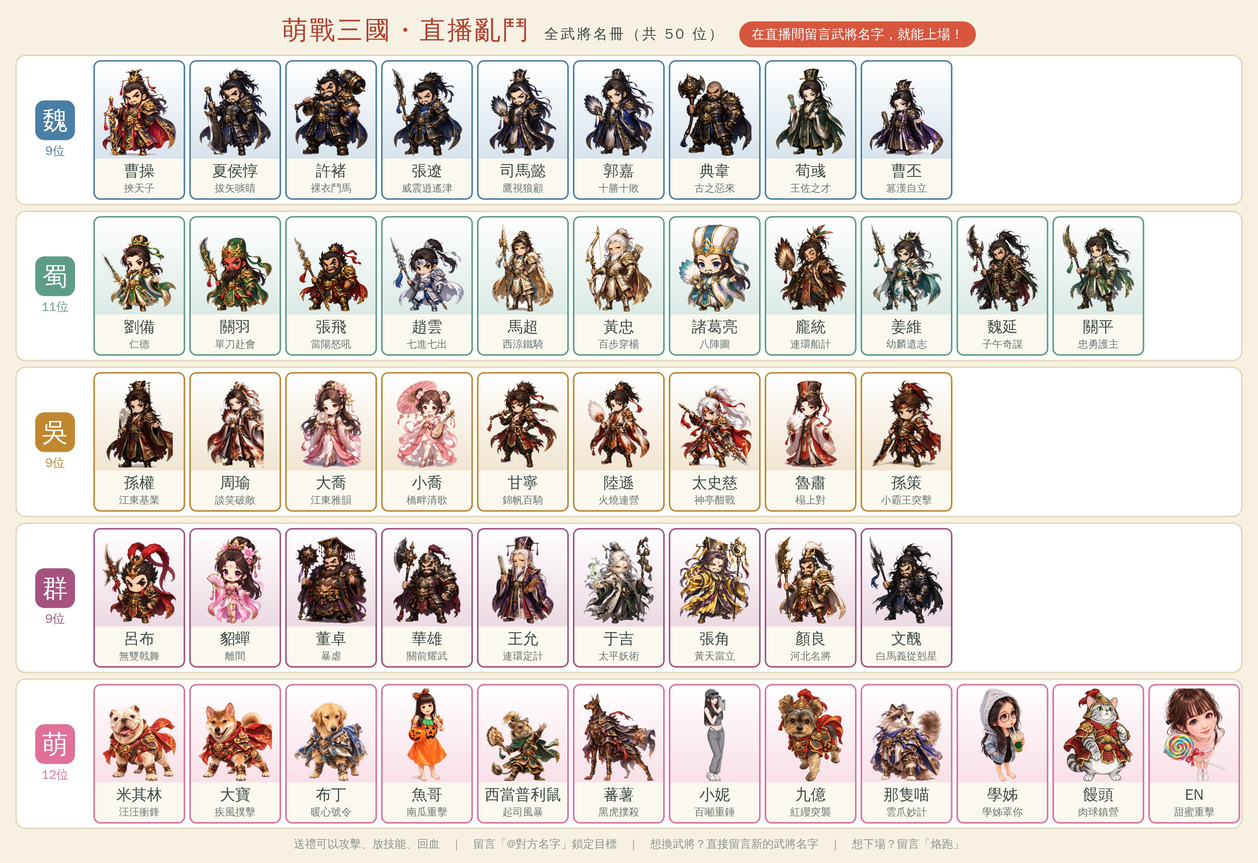
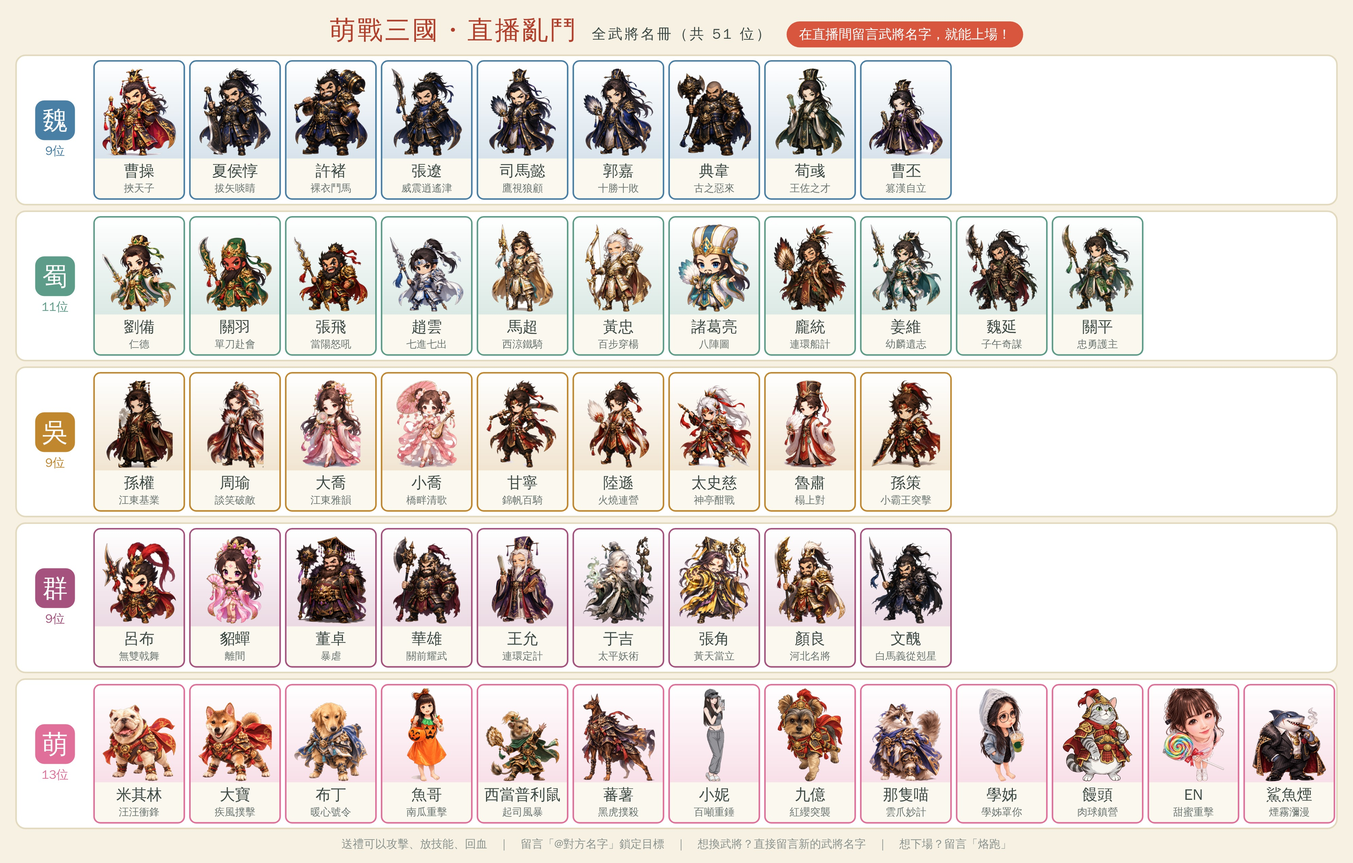
新角色：鯊魚煙（萌國猛將，含逐格動畫與專屬特效） (#108)
* 新增萌國角色「學姊」（統帥）＋動畫提示詞；原圖星巴克商標塗掉；cutout_hero 加 --model

Claude-Session: https://claude.ai/code/session_01J1mi4tQsbQufTfnNbsrTar

* 學姊待機動畫提示詞改成自拍

Claude-Session: https://claude.ai/code/session_01J1mi4tQsbQufTfnNbsrTar

* 學姊加第二組待機提示詞：拿麥克風唱歌

Claude-Session: https://claude.ai/code/session_01J1mi4tQsbQufTfnNbsrTar

* 學姊走路／普攻／技能逐格動畫登記（原圖商標塗掉）；待機圖不能用須重生

Claude-Session: https://claude.ai/code/session_01J1mi4tQsbQufTfnNbsrTar

* 學姊待機提示詞：加入杯子當麥克風版本

Claude-Session: https://claude.ai/code/session_01J1mi4tQsbQufTfnNbsrTar

* 學姊：待機動畫（拿麥克風唱歌，上半身格接技能圖下半身）

Claude-Session: https://claude.ai/code/session_01J1mi4tQsbQufTfnNbsrTar

* 修正轉輪語音後半段被切掉

Claude-Session: https://claude.ai/code/session_01J1mi4tQsbQufTfnNbsrTar

* 新角色自動開放：可選武將記下已知名單，舊設定不再擋掉那隻喵、學姊

Claude-Session: https://claude.ai/code/session_01J1mi4tQsbQufTfnNbsrTar

* 特效全面改用圖片特效（CC0 素材包），沒有圖時退回程式畫的

Claude-Session: https://claude.ai/code/session_01J1mi4tQsbQufTfnNbsrTar

* 試作：3D 武將動作拍成連續圖的工具（關羽）

Claude-Session: https://claude.ai/code/session_01J1mi4tQsbQufTfnNbsrTar

* 三國武將 38 隻動畫提示詞（走路／攻擊／技能／待機）與每日隊列

Claude-Session: https://claude.ai/code/session_01J1mi4tQsbQufTfnNbsrTar

* Gemini 排程指令與交接方式（Drive 資料夾檔名當進度）

Claude-Session: https://claude.ai/code/session_01J1mi4tQsbQufTfnNbsrTar

* 3D 拍圖的關羽試作先不登記（風格未定案），版本號 bump

Claude-Session: https://claude.ai/code/session_01J1mi4tQsbQufTfnNbsrTar

* 改用 ChatGPT Codex 生圖：排程指令、交接資料夾 inbox，提示詞加橫式 3:2

Claude-Session: https://claude.ai/code/session_01J1mi4tQsbQufTfnNbsrTar
[…]

diff --git a/js/config.js b/js/config.js
@@ -16,6 +16,7 @@ window.GAME_CONFIG = {
     hamster:  { attack: { style: 'projectile', emoji: '🧀', color: '#ffd35c' }, skill: { style: 'emojiStorm', emoji: '🧀', n: 18, color: '#ffd35c' } },   // 西當普利鼠：丟起司、起司旋風
     yam:      { attack: { style: 'claw', color: '#b06cff' }, skill: { style: 'tigerPounce', color: '#b06cff' } },                      // 蕃薯：紫色爪痕、猛虎撲殺
     joy:      { attack: { style: 'claw', color: '#ff5a4d' }, skill: { style: 'emojiRain', emoji: '🍗', n: 10, big: 0.6, color: '#ffb36b' } },   // Joy：紅色爪痕、大雞腿雨
+    sharksmoke: { attack: { style: 'bite', color: '#ffffff' }, skill: { style: 'smokeBlow', color: '#cfd4dc' } },   // 鯊魚煙：張大嘴咬、吸一口雪茄吐大片煙霧
     mantou:   { attack: { style: 'claw', color: '#f2f2f8' }, skill: { style: 'stampSmash', text: '肉球', color: '#ffd35c' } },   // 饅頭：肉球爪擊、「肉球」大字蓋章
     xuejie:   { attack: { style: 'projectile', emoji: '🧋', color: '#d9b27a' }, skill: { style: 'heartWave', emoji: '🍵', color: '#7bd46b' } },   // 學姊：丟冰飲、抹茶光波
     nekomeow: { attack: { style: 'claw', color: '#8f9bff' }, skill: { style: 'emojiStorm', emoji: '🐾', n: 16, color: '#8f9bff' } },   // 那隻喵：藍紫爪痕、肉球旋風
@@ -453,6 +454,14 @@ window.GAME_CONFIG = {
       walk: { src: 'hamster_walk.png', frames: 7, cw: 271, ch: 324, ground: 320, fps: 9 },   // 走路循環（原圖 16 格有的有羽扇有的沒有，只挑有羽扇的 7 格）
     },
     // 蕃薯：待機＝吃薯條（8 格，每秒 3 格連播 2 輪）；攻擊／技能＝撲出去咬（8 格，第 5 格咬下去；普攻 13 格/秒、技能 11 格/秒）
+    sharksmoke: {   // 鯊魚煙：Gemini 生圖（8 格 4x2，make_anim_sheet.py --grid 4x2 --faces right --match-height 315；idle／attack 兩張相鄰格子的披風黏在一起，加 --cut 316:0-848,632:0-848,948:0-848 切開）
+      idle: { src: 'sharksmoke_idle.png', frames: 8, cw: 282, ch: 329, ground: 326, fps: 3, repeat: 2 },   // 待機一：抽雪茄
+      idle2: { src: 'sharksmoke_dinner.png', frames: 8, cw: 262, ch: 324, ground: 321, fps: 3, repeat: 2 },   // 待機二：坐在餐桌前吃牛排
+      eat: { src: 'sharksmoke_idle.png', frames: 8, cw: 282, ch: 329, ground: 326, fps: 3, repeat: 2 },   // 回血時播抽雪茄
+      walk: { src: 'sharksmoke_walk.png', frames: 8, cw: 275, ch: 324, ground: 320, fps: 9 },   // 黑道大哥搖擺走路
+      attack: { src: 'sharksmoke_attack.png', frames: 8, cw: 281, ch: 331, ground: 328, fps: 10, hitFrame: 5 },   // 張大嘴咬，第 5 格咬合
+      skill: { src: 'sharksmoke_skill.png', frames: 8, cw: 314, ch: 326, ground: 323, fps: 8, hitFrame: 6 },   // 技能「煙霧瀰漫」：吸一口雪茄，第 6 格吐出煙
+    },
     mantou: {   // 饅頭：Gemini／ChatGPT 生圖（8 格 4x2，make_anim_sheet.py --grid 4x2 --faces left --match-height 396）
       idle: { src: 'mantou_idle.png', frames: 8, cw: 312, ch: 411, ground: 408, fps: 3, repeat: 2 },   // 待機：拿出超大罐頭開心地吃（素色橘標籤罐頭，沒有商標）；之後做呼吸待機再當 idle，這組改成 idle2
       eat: { src: 'mantou_idle.png', frames: 8, cw: 312, ch: 411, ground: 408, fps: 3, repeat: 2 },   // 回血時也播同一組
@@ -522,7 +531,7 @@ window.GAME_CONFIG = {
   // 程式假設每張全身圖原本都是「面向左邊」，往右走時會把圖左右翻面。
   // 如果發現某隻武將走路時是倒退著走（背對前進方向），代表牠的原圖其實面向右，
   // 把牠的英文 ID 加進下面這個清單就會修正。例如： ['taishici', 'sunquan']
-  artFacesRight: ['taishici', 'xuejie'],
+  artFacesRight: ['taishici', 'xuejie', 'sharksmoke'],
 
   // ---------- 留言指令 ----------
   commands: {

diff --git a/data/extra-heroes.js b/data/extra-heroes.js
@@ -31,4 +31,6 @@ window.HEROES_DATA = window.HEROES_DATA.concat([
   { heroId: 'mantou', displayName: '饅頭', faction: 'Meng', troop: 'Vanguard', baseHp: 928, baseAtk: 52, baseArmor: 47, skillName: '肉球鎮營', extra: true },
   // ❤（2026-11-18 咖哩第十二隻，heroId: heart）：萌國的棕髮瀏海女孩猛將（粉色毛衣、白色小裙、白球鞋，從上往下看的角度，手拿超大彩虹旋渦棒棒糖，糖上綁紅色蝴蝶結）。**2026-11-18 咖哩改名成「EN」**（heroId 仍是 heart）；召喚方式仍是整句愛心（別名，見 config.js 的 heroAliases），整句留言剛好是 EN 也行；因為愛心太常出現在聊天裡，**只有整句留言剛好是愛心（❤、❤❤…最多 6 顆）才會召喚她**，聊天裡夾著愛心不算，也不能靠留言愛心換成她（exactOnly，見 game.js）。能力值取猛將中間檔（同米其林），技能「甜蜜重擊」（用超大棒棒糖打人）。名字以外的設定（兵種、數值、技能名）是 Claude 先定的。
   { heroId: 'heart', displayName: 'EN', faction: 'Meng', troop: 'Vanguard', baseHp: 928, baseAtk: 52, baseArmor: 47, skillName: '甜蜜重擊', extra: true, exactOnly: true },
+  // 鯊魚煙（2026-11-19 咖哩第十三隻）：萌國的黑道大哥鯊魚猛將（直條紋西裝、黑色毛領披風、金鍊子、金錶、胸口紅玫瑰、嘴叼雪茄）。名字以外的設定（兵種、數值、技能名）是 Claude 先定的：猛將中間檔（同米其林），技能「煙霧瀰漫」（吸一口雪茄吐出大片煙霧）。
+  { heroId: 'sharksmoke', displayName: '鯊魚煙', faction: 'Meng', troop: 'Vanguard', baseHp: 928, baseAtk: 52, baseArmor: 47, skillName: '煙霧瀰漫', extra: true },
 ]);

diff --git a/js/hero-fx.js b/js/hero-fx.js
@@ -139,6 +139,27 @@ window.ML = window.ML || {};
         h.quake(0.7);
       },
     },
+    // 煙霧瀰漫（鯊魚煙）：從嘴裡吐出一大片煙霧飄向對手，煙霧在對手身上炸開、整片罩住
+    smokeBlow: {
+      hit: 0.7,
+      fire(h, tv, p) {
+        const c = pick(p, 'color', '#cfd4dc');
+        for (let i = 0; i < 14; i++) h.after(i * 0.04, () => {
+          const t = 0.55, dx = tv.x - h.v.x, dy = tv.y - h.v.y;
+          h.fx.emoji(h.v.x, h.v.y, i % 3 ? '💨' : '☁', h.v.size * rnd(0.3, 0.55), dx / t + rnd(-70, 70), dy / t - 60 + rnd(-70, 70), 80, t + 0.15, rnd(-3, 3));
+        });
+        h.ring(h.v, { life: 0.7, color: c, max: 2.4, width: 8 });
+      },
+      onHit(tv, h, p) {
+        const c = pick(p, 'color', '#cfd4dc');
+        emojiBurst(tv, h, '☁', 16, 460);
+        emojiBurst(tv, h, '💨', 10, 560);
+        h.fx.shock(tv.x, tv.y + tv.size * 0.5, tv.size * 2.4, c, 0.9, true);
+        h.fx.sparks(tv.x, tv.y, '#eef1f5', 26, 420, 6, 0.9);
+        h.ring(tv, { life: 0.9, color: c, max: 2.8, width: 9 });
+        h.quake(0.8);
+      },
+    },
     // 食物旋風：一圈表情符號繞著對手轉、往上捲
     emojiStorm: {
       hit: 0.7,

diff --git a/js/version.js b/js/version.js
@@ -1,3 +1,3 @@
 // 目前的版本號。每次有更新要上線，就跑 python3 tools/bump_version.py（會同時改這個檔和 version.json）。
 // 直播畫面會定時去讀 version.json，發現跟自己不一樣就自動更新（見 js/updater.js）。
-window.APP_VERSION = '2026-11-18.10';
+window.APP_VERSION = '2026-11-19.2';

diff --git a/CLAUDE.md b/CLAUDE.md
@@ -224,6 +224,7 @@
   - **學姊**（2026-11-16 咖哩第十隻）：長髮眼鏡女孩統帥（灰色連帽、黑框眼鏡、牛仔外套、黑上衣短褲、光腳、手拿冰抹茶拿鐵），`heroId: xuejie`，統帥（技能演出＝光環＋光柱），血 746／攻 55／防 34（同布丁，**全員同能力開著時不生效**），技能「學姊罩你」。名字以外的設定（兵種、數值、技能名）是 Claude 先定的。專屬特效：丟冰飲🧋（普攻）＋抹茶🍵光波（技能，`heartWave`）。**⚠ 原圖杯子上有星巴克（Starbucks）的商標（美人魚圖案）**——這個 repo 是公開的、要在 TikTok 直播，真實品牌商標不適合放進去，所以**處理圖時用小程式把商標塗掉，變成杯上一個素色深綠色圓形貼紙**（只改商標圓形範圍內的像素、避開手指；`assets/heroes/xuejie.png`）。**之後給 Claude 新圖或動畫圖時，如果杯子上還有商標，Claude 會再塗掉；生圖提示詞也已寫明「杯身不要商標」**。去背：預設模型（isnet）會把裸露的小腿和腳當成背景去掉（背景是深色光暈、皮膚顏色接近），改用 `birefnet-general`（`cutout_hero.py --model birefnet-general`，第一次執行下載約 1GB 模型，這台雲端環境下載得到），全身（含光腳）完整。圖面向右（視線往右上），所以列進 `config.js` 的 `artFacesRight`（跟太史慈一樣，程式才會左右翻對）。**逐格動畫：走路／普攻／技能／待機都已做好並登記**（2026-11-16 咖哩用 Gemini 生圖）：**走路**＝悠閒走路 12 格（`xuejie_walk.png`，12 格/秒）、**普攻**＝吸飲料→皺眉→彈指→伸手向前→收回 8 格（`xuejie_attack.png`，`hitFrame: 6`，伸手向前那格）、**技能**＝舉杯→叉腰→頭髮飛揚→比讚笑→手指向前→回站姿 8 格（`xuejie_skill.png`，`hitFrame: 7`，手指向前那格；原圖第 8 格只畫到腰、被格子切掉所以沒用）。**⚠ Gemini 雖然被要求杯身不能有商標，但走路圖第 3 排 4 格、普攻圖最後一格的杯子上還是長出了星巴克商標**：這幾格我用小程式在杯上蓋素色深綠貼紙（座標是看圖量的，不是自動偵測；自動偵測會誤傷腿上陰影，所以改手動座標）。**之後每次收到她的新動畫圖，都要檢查杯子有沒有商標**。圖片版面不規則（技能圖有格子黏在一起、有的格被切掉），做法：自動找出每個角色（連通塊，附近的小碎片歸給最近的角色）、第 6／7 格黏在一起的用「侵蝕找出兩個身體核心再把其餘像素分給最近的核心」切開、小於本體 1.2% 的雜點丟掉，再重新貼成整齊的格子交給 `make_anim_sheet.py`（`--scale` 0.89～1.0 依各圖角色大小量過）。**待機（拿麥克風唱歌）已做好並登記**（`xuejie_idle.png`，7 格，3 格/秒連播 2 輪，回血 `eat` 用同一組）：咖哩第三版生圖仍然每格只畫到腰（被格子切掉腿），所以**用技能圖裡的下半身（短褲＋腿＋光腳）接到每格上半身上**（比對黑衣寬度與中心後縮放貼上，腳本不在 repo、一次性做的）；原圖第 7 格沒拿杯子丟掉、第 2 格沒拿杯子保留（唱歌拿麥克風的那格，可接受）。⚠ 大腿接縫處第 5～7 格有淡淡的接線痕跡，畫面縮小後看不出來；想更乾淨要請 Gemini 重生「全身入鏡」的版本。登記後她停下來時會播這組。其餘提示詞在 `tools/anim_prompts/xuejie.md`（待機＝自拍（掏手機、剪刀手吐舌、鴨子嘴、看照片笑，2026-11-16 咖哩嫌原本「悠哉喝飲料」太普通換掉），另有第二組待機「拿麥克風唱歌」（提示詞 1b，咖哩 2026-11-16 要的，登記時當 `idle2`，兩組停下來時隨機挑）、走路＝悠閒走路、普攻＝彈指一擊（第 5 格命中）、技能＝舉杯鼓舞（第 6 格施放），都寫明不畫特效、杯身無商標），咖哩生圖後交給 Claude 處理。名冊圖與玩法說明圖已重新產生（萌國頁 10 位，下方文字卡拿掉重複的名字列表，騰空間給 4 排武將圖）。⚠ 觀眾留言**含「學姊」兩個字**（第一次上場是「留言含武將名就算」）就會帶這隻上場，聊天裡提到學姊會誤觸發；驗證：瀏覽器測過留言上場、顯示「萌・學姊」、普攻與技能（抹茶光波）無錯誤；⚠ 沒在直播軟體裡看過。
   - **饅頭**（2026-11-17 咖哩第十一隻）：灰虎斑胖貓穿紅金鎧甲（紅纓頭盔、獅頭肩甲、紅披風、腰間佩劍、白色圓肚子，用兩腳直立），`heroId: mantou`，猛將（技能演出＝衝撞地裂），血 928／攻 52／防 47（同米其林），技能「肉球鎮營」。名字以外的設定（兵種、數值、技能名）是 Claude 先定的。專屬特效：白色爪痕（普攻）＋「肉球」大字蓋章（技能，`stampSmash`）。圖：咖哩給的原圖是深色紅光暈背景，用 `tools/cutout_hero.py --model birefnet-general` 去背（乾淨），`assets/heroes/mantou.png`；圖面向左偏正面（不需列進 `artFacesRight`）。**逐格動畫已做好並登記**（2026-11-17 咖哩用 Gemini／ChatGPT 照 `tools/anim_prompts/mantou.md` 的提示詞生圖，四組都是乾淨的 4x2 綠底 8 格，`make_anim_sheet.py --grid 4x2 --faces left --match-height 396` 一次處理好，沒有格線、沒有被切邊）：**待機**＝拿出超大罐頭開心地吃（素色銀罐＋橘色標籤，沒有商標；目前登記成 `idle`，回血 `eat` 也用它，3 格/秒連播 2 輪；之後做呼吸待機再把這組改成 `idle2` 隨機輪流）、**走路**＝直立胖貓搖擺（9 格/秒）、**普攻**＝肉球爪擊（10 格/秒，`hitFrame: 5`）、**技能**＝蹲下→跳起→披風飛揚落下→雙手往前壓（8 格/秒，`hitFrame: 6`；Gemini 畫的動作跟提示詞略有不同，沒有重生）。驗證：瀏覽器測過上場待機、普攻、技能都有播、大小跟單張圖一致、無錯誤。⚠ 呼吸待機還沒做；提示詞在 `tools/anim_prompts/mantou.md`（攻擊＝肉球爪擊、技能＝跳起來全身壓下、待機＝呼吸晃動、走路＝直立胖貓搖擺，優先順序攻擊→技能→待機→走路；已含「附參考圖、橫式 3:2、不要特效、不要紅色光暈」）。名冊圖與玩法說明圖已重新產生（萌國頁 11 位仍收得進安全區）。驗證：瀏覽器測過留言「饅頭」上場、技能（「肉球」大字蓋章）無錯誤、4 組測試全過；⚠ 沒在直播軟體裡看過，「肉球」大字很大（跟「100T」同一種演出）。觀眾留言**含「饅頭」兩個字**就會帶這隻上場。
   - **EN（原名「❤」，2026-11-18 咖哩改名）**（`heroId: heart`，畫面上顯示「EN」；召喚字仍是愛心，`config.heroAliases` 的 `'❤': 'heart'`，整句留言剛好是 EN／en（可重複 1～6 次）也算；下面寫「❤」的地方都是同一隻）：棕色捲髮齊瀏海女孩（粉色毛衣、白色荷葉邊小裙、白球鞋，從上往下看的俯視角度），手拿超大彩虹旋渦棒棒糖（綁紅色蝴蝶結），猛將（血 928／攻 52／防 47 同米其林），技能「甜蜜重擊」，用超大棒棒糖打人。**召喚規則特別**（`extra-heroes.js` 的 `exactOnly: true`，`game.js` 的 `exactNameOnly`）：因為愛心太常出現在聊天裡，**只有整句留言剛好是愛心（❤、❤、❤❤❤…最多 6 顆，中間可有空白）才會召喚她**；「好愛你❤哦」這種夾在別的字裡的不算，愛心超過 6 顆也不算；**已經在場上的人要整句連打 3～6 顆愛心才會換成她**（2026-11-18 咖哩要求能切換；單顆或兩顆不會換，避免大家習慣性發愛心就被換掉；還沒上場的人 1 顆就召喚；`game.js` 的 `exactNameOnly(name, text, minTimes)`，換角仍走一般的換武將規則：血量照比例、有冷卻）。**專屬特效（2026-11-18 設計，全部粉紅糖果風，`hero-fx.js` 的 `sweetSmash`／`candyBang`）**：普攻＝棒棒糖打中時糖果🍬💖🍭炸開＋粉紅震波＋粉白火花；技能＝粉紅法陣、棒棒糖雨🍭🍬從天掉下、落地時畫面中間蓋一顆超大❤＋糖果愛心爆＋粉紅光柱＋碎石＋震動。為了不被預設特效染成橘色，`effects.shock(x,y,r,color,life,noAlt)` 新增第 6 個參數 `noAlt`（true＝不隨機換成火圈／電漿爆炸），也不用金色聖柱與褐色錘擊圖。驗證：瀏覽器截圖看過普攻與技能，粉紅糖果風、❤蓋章有出現、無程式錯誤；⚠ 沒在直播軟體裡看過，大❤蓋章很大（跟「100T」同一種演出）。圖：咖哩給的原圖是黑底（原本應該是透明），用 `cutout_hero.py --model birefnet-general` 去背（乾淨，髮絲與黑色髮帶都保留），`assets/heroes/heart.png`。**逐格動畫四組都做好並登記了**（2026-11-18 咖哩用 Gemini 照 `tools/anim_prompts/heart.md` 的提示詞生圖，都是乾淨的 4x2 綠底 8 格，`make_anim_sheet.py --grid 4x2 --faces right`，pngquant 品質 30-85 壓到每張約 260 KB；Gemini 每組畫的角色大小不一樣，所以每組各自用 `--scale` 對齊站姿高度：走路 0.966、待機 0.88、技能 1.07、攻擊 1.03）：**待機**＝蹲在地上用手指畫圈圈（`heart_idle.png`，3 格/秒連播 2 輪，回血 `eat` 也用它）、**走路**＝棒棒糖扛肩輕快走路（`heart_walk.png`，9 格/秒）、**普攻**＝棒棒糖揮擊（`heart_attack.png`，10 格/秒，`hitFrame: 6`）、**技能「甜蜜重擊」**＝跳起來把棒棒糖砸在地上（`heart_skill.png`，8 格/秒，`hitFrame: 6`，第 3、4 格用 `--lift 0,0,40,55,25,0,0,0` 抬高才看得出跳起來）。⚠ **攻擊圖第 4、5 格、技能圖第 7 格的棒棒糖被 Gemini 的格子邊切掉一部分**（棒棒糖畫到格子外面了），沒辦法補回，所以命中格對在完整的第 6 格；想更乾淨可以請 Gemini 重生這幾組，提示「棒棒糖整支要留在格子內、角色往格子中間靠」。 名冊圖與玩法說明圖已重新產生（萌國頁 12 位）。⚠ **2026-11-18 改名時抓到上一版（連打 3 顆愛心換角）其實沒生效**：`switchHero` 還在比對「整句剛好等於名字」，連打愛心過不了；已改成 exactOnly 武將直接放行，改名後用瀏覽器實測 1 顆／2 顆愛心不換、3 顆換、`enenen` 換、一般武將換角不受影響。驗證：瀏覽器測過「好愛你❤哦」不召喚、「❤」「❤❤❤」「❤ ❤」召喚、8 顆愛心不召喚、關羽留言 1～2 顆愛心不會換成她、連打 3 顆才換、普攻與技能（棒棒糖雨）無錯誤；⚠ 沒在直播軟體裡看過，圖是俯視角度，在棋盤上跟其他角色（平視）看起來比較不一樣。
+  - **鯊魚煙**（2026-11-19 咖哩第十三隻）：黑道大哥風的鯊魚（灰藍鯊魚頭、臉上紅色 X 疤痕、黑色直條紋西裝、金鍊與金錶、胸口紅玫瑰、黑毛領披風、嘴叼雪茄），`heroId: sharksmoke`，猛將（血 928／攻 52／防 47 同米其林），技能「煙霧瀰漫」。名字以外的設定（兵種、數值、技能名）是 Claude 先定的。圖：咖哩給的白底原圖，`cutout_hero.py --model birefnet-general` 去背（乾淨，雪茄的煙保留了大半），`assets/heroes/sharksmoke.png`；**圖面向右**，已列進 `artFacesRight`。專屬特效：普攻＝張大嘴咬（`bite` 尖牙合起來）、技能＝吸一口煙後吐出大片煙霧（新增 `hero-fx.js` 的 `smokeBlow`：一串雲朵／風的表情符號飛向對手，在對手身上炸開成一整片、灰色震波與震動；煙霧用的是系統的表情符號，在不同電腦上可能長得不太一樣，畫面測試時是藍白色卡通雲）。**逐格動畫五組都做好並登記了**（2026-11-19 咖哩用 Gemini 照提示詞生圖，都是乾淨的 4x2 綠底 8 格，`make_anim_sheet.py --grid 4x2 --faces right --match-height 315`；待機一和攻擊兩張的相鄰格披風黏在一起，所以多加 `--cut 316:0-848,632:0-848,948:0-848` 沿格子邊界切開；pngquant 壓縮後每張約 300 KB）：**待機一**＝抽雪茄（`sharksmoke_idle.png`，3 格/秒連播 2 輪，回血 `eat` 也用它）、**待機二**＝坐在餐桌前吃牛排（`sharksmoke_dinner.png`，登記成 `idle2`，兩組停下來時隨機挑；桌巾是棕色，沒有用綠色）、**走路**＝大搖大擺（`sharksmoke_walk.png`，9 格/秒）、**普攻**＝張大嘴咬（`sharksmoke_attack.png`，10 格/秒，`hitFrame: 5` 咬合那格）、**技能**＝吸一口雪茄、第 6 格吐出一小團煙（`sharksmoke_skill.png`，8 格/秒，`hitFrame: 6`；大片煙霧是遊戲的 `smokeBlow` 特效）。動畫大小跟單張圖差不多（鯊魚本體稍小一點，肉眼可接受）。提示詞原檔：`tools/anim_prompts/sharksmoke.md`（攻擊＝張大嘴咬、技能＝吸一口吐大片煙、待機兩組、走路；雪茄不能有商標、桌巾不能用綠色）。驗證：瀏覽器測過留言「鯊魚煙」上場（顯示「萌・鯊魚煙」）、待機、走路、普攻（咬）與技能（動畫＋煙霧＋「煙霧瀰漫」字樣）都有演出、無程式錯誤；⚠ 沒在直播軟體裡看過，沒逐格看過吃牛排那組在場上播放的效果。觀眾留言**含「鯊魚煙」三個字**就會帶這隻上場。
   - 觀眾第一次上場是「留言裡含武將名就算」，所以聊天提到「米其林餐廳」之類的詞也會讓還沒上場的人帶著米其林上場。
 - 同步方式：`python3 tools/sync_from_curry_games.py`（需要 Pillow），會重新產生 `data/heroes.js`，
   並把全身圖縮成 312x396 放到 `assets/heroes/`（原圖每張約 0.5MB，縮小後整包約 7MB）。
@@ -348,9 +349,9 @@
 | `index.html` | 入口。直接開＝帶假事件面板的試玩模式；網址加 `?obs=1`＝只有透明遊戲畫面（給 OBS） |
 | `js/config.js` | **設定檔**：禮物、傷害、血量、復活秒數、顏色 |
 | `data/heroes.js` | 38 隻武將資料（自動產生） |
-| `assets/heroes/` | 47 張武將全身圖（已縮小）：38 張來自萌戰三國，加上自己新增的萌國 12 隻（米其林、大寶、布丁、魚哥、西當普利鼠、蕃薯、小妮、九億、那隻喵、學姊、饅頭、❤）|
-| `data/extra-heroes.js` | 自己新增的角色資料（手寫）：萌國 12 隻 |
-| `tools/anim_prompts/` | 給生圖工具的逐格動畫提示詞（目前有那隻喵、學姊） |
+| `assets/heroes/` | 48 張武將全身圖（已縮小）：38 張來自萌戰三國，加上自己新增的萌國 13 隻（米其林、大寶、布丁、魚哥、西當普利鼠、蕃薯、小妮、九億、那隻喵、學姊、饅頭、EN、鯊魚煙）|
+| `data/extra-heroes.js` | 自己新增的角色資料（手寫）：萌國 13 隻 |
+| `tools/anim_prompts/` | 給生圖工具的逐格動畫提示詞（那隻喵、學姊、饅頭、❤、鯊魚煙） |
 | `tools/cutout_hero.py` | 把角色圖去背並轉成遊戲用的全身圖 |
 | `js/events.js` | 事件來源層（假面板／之後的 TikTok） |
 | `js/gift-settings.js` | TikTok 禮物 → 動作的設定（存在瀏覽器與直播用網址裡） |

diff --git a/tools/anim_prompts/sharksmoke.md b/tools/anim_prompts/sharksmoke.md
@@ -1,0 +1,95 @@
+# 鯊魚煙（sharksmoke）逐格動畫提示詞（給 Gemini／ChatGPT 等生圖工具）
+
+參考圖：`assets/heroes/sharksmoke.png`（去背後的全身圖；原圖是咖哩給的，黑道大哥風的鯊魚穿直條紋西裝、嘴叼雪茄）。**每次都要真的附上參考圖片檔，不要只貼網址。**
+生成後把圖給 Claude，用 `tools/make_anim_sheet.py` 處理並登記 `heroAnims`（**原圖與遊戲單張圖都是面向右邊**，所以處理時用 `--faces right`，單張圖已列進 `artFacesRight`）。建議命中格：普攻第 5 格、技能第 6 格。
+**優先順序：攻擊、技能、待機一（抽雪茄）、待機二（吃牛排）、走路。**
+
+## 共用規格（每個動畫都要貼）
+```
+角色：附圖裡的鯊魚武將「鯊魚煙」——灰藍色的鯊魚頭（背鰭、臉上有一道紅色 X 形疤痕、一隻棕色眼睛、白色的肚子與下顎、一排尖牙），身穿黑色直條紋西裝配白襯衫（領口敞開），脖子上掛粗金鍊與圓形金色星形墜飾，胸口別著一朵紅玫瑰（玫瑰有金鍊子垂下），腰間黑皮帶配金色鯊魚鰭造型扣，肩上披著黑色毛皮領的華麗披風（內裡暗紅色花紋、邊緣金色渦紋），手腕戴金色大手錶、手指戴金戒指，腳穿亮面黑皮鞋。身體是圓滾滾的 Q 版大頭矮身比例，用兩隻腳站立。每一格的臉、疤痕、西裝條紋、金飾、披風、顏色都必須跟附圖**一模一樣**，用跟附圖同樣精緻的可愛插畫風。請嚴格照附圖的角色畫，不是憑想像。
+
+背景：純綠色 #00FF00，整張圖只有這一種綠色，不要地面、不要陰影、不要漸層。（角色與道具身上不要出現鮮豔的純綠色。）
+
+排版：圖片橫式 3:2；8 格，4 欄 × 2 列，每格一樣大、等距排列，格與格之間留綠色空白；不要格線、邊框、文字、編號。閱讀順序由左到右、由上到下。
+
+每一格：角色全身完整入鏡（含背鰭、披風、腳，不被切到邊）；角色要畫小一點，每格上下左右都留至少 10% 的綠色空白，絕對不能超出格子；角色大小每格一致；腳底站的高度每格一致（跳起來的格除外）。
+
+方向：角色朝向畫面右邊（身體與臉轉向右側，3/4 側面，跟附圖一樣），每格鏡頭角度一致。
+
+雪茄與煙：雪茄是素色的棕色雪茄，雪茄上不要有任何商標、文字或煙標；只准畫雪茄頭冒出的一小縷淡白灰色細煙（細煙不要太長、不要佈滿整格）。除了這縷細煙以外，不要畫任何特效（不要光、不要線條、不要殘影、不要文字、不要塵土），其他特效由遊戲自己處理。
+```
+
+## 1. 攻擊（attack）——張大嘴咬人，8 格
+```
+【貼上共用規格；這一組雪茄要先從嘴裡拿下夾在手指間（第 2 格開始），免得咬的時候雪茄擋住嘴】
+
+動畫：普攻，用嘴巴張得大大地去咬人。8 格由左到右、由上到下：
+1. 站著，嘴角叼著雪茄，一手插口袋，壞笑，準備姿勢
+2. 單手把雪茄從嘴裡拿下夾在指間，身體微微往後仰、頭往後縮
+3. 身體往後拉到最大，頭高高抬起，嘴巴開始張開，露出尖牙，蓄力
+4. 身體猛地向前撲，嘴張到最大（上下顎分開接近 90 度），整排尖牙全露出來
+5. 頭伸到最前面，大嘴整個咬下去、上下排牙齒合攏的瞬間（命中瞬間；不要畫血、不要畫牙印特效）
+6. 咬完的餘勢，頭還在最前面、嘴巴緊閉，披風向後飄
+7. 身體往回收，嘴角帶著得意的笑，舔一下牙
+8. 回到第 1 格的準備姿勢（要能接回第 1 格，雪茄回到嘴角）
+```
+
+## 2. 技能（skill）「煙霧瀰漫」——吸一口雪茄吐出一大片煙，8 格
+```
+【貼上共用規格。技能的大片煙霧由遊戲畫，所以第 6～7 格只畫嘴邊吐出的「一小團」煙，不要把整格塞滿煙】
+
+動畫：技能「煙霧瀰漫」，深深吸一口雪茄然後往前吐出大量的煙。8 格由左到右、由上到下：
+1. 站著，嘴角叼著雪茄，一手插口袋，準備姿勢
+2. 一手把雪茄拿到嘴邊，胸口微微鼓起，開始吸氣，雪茄頭燒得發亮（橘紅色）
+3. 用力吸，胸膛整個鼓起來、臉頰凹陷，眼睛瞇起
+4. 吸到最飽，胸膛鼓到最大，頭微微後仰，閉嘴憋著
+5. 頭往前一甩，嘴巴嘟成圓形，準備往前吐
+6. 嘴巴大開，往前用力吐出煙（嘴前只畫一小團白灰色的煙，命中瞬間），披風被氣流吹得往後飄
+7. 吐完最後一口，身體稍微前傾，嘴角還飄著一縷煙，滿足地瞇眼
+8. 慢慢站直，雪茄回到嘴角，回到準備姿勢（要能接回第 1 格）
+```
+
+## 3a. 待機一（抽雪茄，循環）——登記成 `idle`
+```
+【貼上共用規格】
+
+動畫：待機，一直抽著雪茄，8 格循環播放。站著悠閒地抽，雪茄的煙細細地往上飄。8 格由左到右、由上到下：
+1. 站著，一手插口袋，另一手拿著雪茄放在身前，眼神斜睨前方
+2. 把雪茄舉到嘴邊
+3. 把雪茄叼進嘴裡，吸一口，雪茄頭微微發亮，臉頰稍微凹陷
+4. 眼睛微瞇，胸口微微鼓起，一臉享受
+5. 把雪茄從嘴裡拿開，頭微微抬起，嘴角張開準備吐氣（嘴前只畫一小縷淡煙）
+6. 吐煙，頭微微後仰，披風被輕輕吹動
+7. 低頭看一下手上的雪茄，彈一下雪茄灰（灰很小一點，不要畫特效）
+8. 雪茄放回身前，回到第 1 格的姿勢（循環不跳）
+```
+
+## 3b. 待機二（坐在餐桌前吃牛排，循環）——登記成 `idle2`，兩組待機停下來時隨機挑一組
+```
+【貼上共用規格，另外加：這一組鯊魚煙是「坐」著的，要畫出一張小餐桌與一張椅子；餐桌上有一個白色盤子，盤子上有一塊厚厚的牛排，鯊魚煙的手上拿著銀色刀叉。餐桌、椅子、盤子都是素色，不要畫桌巾上的文字或商標；桌巾不要用綠色。這一格的桌椅要跟鯊魚煙一起算進「全身」，整組都不要超出格子。雪茄這一組不出現（先放在盤子旁邊的菸灰缸，菸灰缸也要畫素色的）】
+
+動畫：待機，鯊魚煙坐在餐桌前優雅地吃牛排，8 格循環播放。8 格由左到右、由上到下：
+1. 坐在餐桌前，雙手各拿刀叉放在桌上，眼睛盯著盤子裡的牛排，嘴角帶笑
+2. 左手用叉子叉住牛排，右手拿刀準備切
+3. 刀子在牛排上往下切，身體微微前傾
+4. 切下一小塊牛排，用叉子叉起來
+5. 把叉子舉到嘴邊，嘴巴張開，露出一排尖牙
+6. 嘴巴咬住牛排，臉頰鼓起，眼睛瞇成滿意的樣子
+7. 咀嚼，頭微微晃動，一臉享受
+8. 把叉子放回盤邊，用餐巾擦一下嘴，回到第 1 格的姿勢（循環不跳）
+```
+
+## 4. 走路（walk）——黑道大哥搖擺走路，8 格循環
+```
+【貼上共用規格】
+
+動畫：走路循環，8 格。用兩隻腳走路，身體帶著一點大搖大擺的霸氣，嘴角叼著雪茄，一手插口袋，另一隻手自然擺動，披風與背鰭隨步伐微微晃動。8 格由左到右、由上到下：
+1. 右腳踏出，身體微微下沉，披風往後飄
+2. 重心移到右腳，身體稍微升起
+3. 左腳往前擺動
+4. 左腳落地、右腳離地，身體左傾
+5. 左腳踏出，身體微微下沉
+6. 重心移到左腳，身體稍微升起
+7. 右腳往前擺動
+8. 右腳落地回到第 1 格附近（循環不跳）
+```
